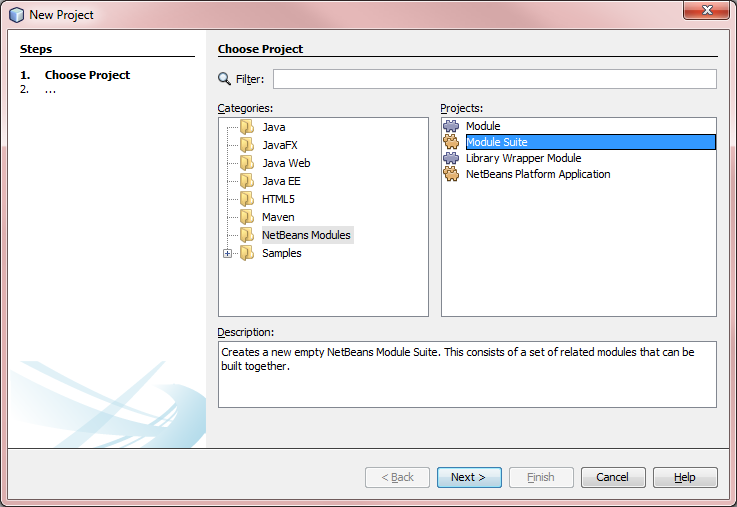
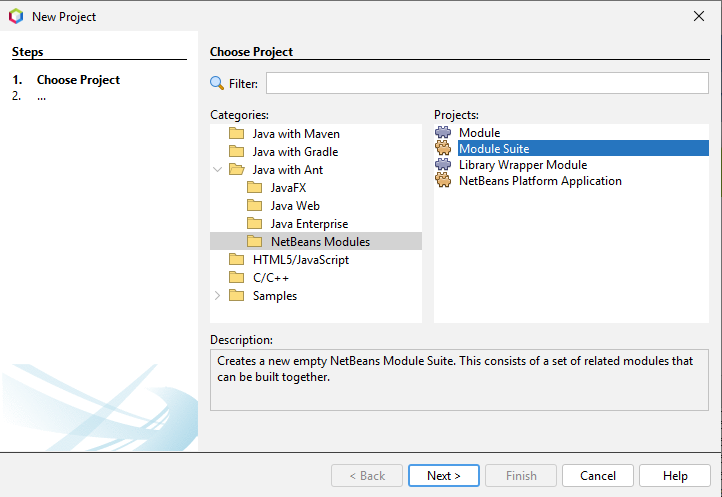
updated screenshots, guide for curent app version

Changed region(s): [[0.0, 0.0, 1.0, 1.0]]

diff --git a/Developer Training/docs/developer_guide.md b/Developer Training/docs/developer_guide.md
@@ -34,16 +34,19 @@ in the following areas:
 
 Throughout this training document we will use the following conventions:
 
-This is a tip. Tips describe features or concepts that are nice to know
-but not crucial for a good understanding of the rest of the material.
+**TIP**: This is a tip. Tips describe features or concepts that are nice 
+to know but not crucial for a good understanding of the rest of the 
+material.
 
 **This is an important fact. Important facts describe features or
 concepts that are crucial to successful Constellation development.**
 
+```
 This is a code block. Code blocks contain valid Java code that will be
 needed to complete the development tasks in this document. In general,
 you can complete the development tasks by copy-and-pasting these code
 blocks into the skeleton classes contained in the exercises module.
+```
 
 **Required Files**
 
@@ -117,10 +120,10 @@ the following questions:
 
 # Chapter 1: Development Environment
 
-Constellation is built in Java 8 on top of the NetBeans platform, taking
+Constellation is built in Java 21 on top of the NetBeans platform, taking
 advantage of its module and windowing systems, among others. For
-information on how to install and configure Java 8 or NetBeans, refer to
-Oracle's documentation.
+information on how to install and configure Java 21 or NetBeans, refer to
+instructions on the Azul and Apache Netbeans websites.
 
 ## Exercise 1.1: Setting up your Development Environment
 
@@ -131,7 +134,7 @@ be added or removed from a NetBeans platform as required. These modules
 are stored in and managed by a **module suite**.
 
 1.  Click on *File \> New Project*, then select *Module Suite* under the
-    *NetBeans Modules* category. Click *Next*.
+    *NetBeans Modules* sub-category of *Java with Ant*. Click *Next*.
 
 ![](media/image1.png){ width=80% }
 
@@ -167,14 +170,14 @@ suite and selecting *Run*.
 
 ![](media/image5.png){ width=40% }
 
-**TIP**: Pressing the F6 key is a shortcut for running your main project. When
-you have multiple projects open, you can specify the main project by
+**TIP**: Pressing the F6 key is a shortcut for running your main project. 
+When you have multiple projects open, you can specify the main project by
 right-clicking on it and selecting "Set as Main Project". This simply
 means that NetBeans can make assumptions about what to clean, build, or
 run when you don't specify otherwise.
 
 Once Constellation has finished loading, you should be presented with
-the Constellation Tutorial Page.
+the Constellation Welcome Page.
 
 ![](media/image6.png)
 
@@ -207,9 +210,9 @@ In order to start writing code, we first need a module to store it in.
 Similar to a module suite, you can configure a module by right clicking
 an open module and selecting *Properties*.
 
-1.  Since we are working in Java 8, it is always a good idea to ensure
-    that your module is Java 8 compliant. This can be achieved by
-    clicking *Sources* and setting the *Source Level* to 1.8.
+1.  Since we are working in Java 21, it is always a good idea to ensure
+    that your module is Java 21 compliant. This can be achieved by
+    clicking *Sources* and setting the *Source Level* to 21.
 
 ![](media/image10.png){ width=80% }
 
@@ -704,7 +707,7 @@ we will add a single node to the graph.
 @Override
 protected RecordStore query(final RecordStore query, final PluginInteraction interaction, 
         final PluginParameters parameters) throws InterruptedException, PluginException {
-    RecordStore result = new GraphRecordStore();
+    final RecordStore result = new GraphRecordStore();
     result.add();
     result.set(GraphRecordStoreUtilities.SOURCE + VisualConcept.VertexAttribute.IDENTIFIER, "Me");
     result.set(GraphRecordStoreUtilities.SOURCE + AnalyticConcept.VertexAttribute.TYPE, AnalyticConcept.VertexType.PERSON);
@@ -1095,7 +1098,7 @@ public static class VertexAttribute {
 }
 ```
 
-[You also need to build a population schema attribute.]{.ul} Take some
+You also need to build a population schema attribute. Take some
 time to look over the properties which can be set using the schema
 attribute builder.
 
@@ -1340,7 +1343,7 @@ Before we build an icon, we should create an **IconProvider**. Open
 **PandemicIconProvider**; it should look something like this:
 
 ```java
-@ServiceProvider(service = IconProvider.class)
+@ServiceProvider(service = ConstellationIconProvider.class)
 public class PandemicIconProvider implements IconProvider {
     ...
 }
@@ -1565,7 +1568,7 @@ the way in which Constellation responds to the error. Depending on the
 **PluginNotificationLevel** specified, Constellation will respond in
 different ways:
 
-1.  *FATAL***,** *ERROR*: A dialog box is displayed describing the error
+1.  *FATAL*, *ERROR*: A dialog box is displayed describing the error
 
 2.  *WARNING*: A notification bubble is displayed describing the error
 
@@ -1753,20 +1756,21 @@ public PluginParameters createParameters() {
     final PluginParameters parameters = new PluginParameters();
 
     final PluginParameter<DateTimeRangeParameterType.DateTimeRangeParameterValue> datetime 
-	        = DateTimeRangeParameterType.build(CoreGlobalParameters.DATETIME_RANGE_PARAMETER_ID);
+	        = CoreGlobalParameters.DATETIME_RANGE_PARAMETER;
     parameters.addParameter(datetime);
     return parameters;
 }
 ```
 
 A significant difference this time is that we have used a globally
-defined parameter ID, instead of creating our own as we did in the
-**ImportCustomCitiesPlugin**. Previously, we wanted to make our
-parameter ID unique so that it did not clash with other parameters in
-the application. In this case, we want to match the parameter ID of
-other data access plugins that specify a datetime range parameter. This
-will allow the Data Access View to present this parameter only once
-instead of making the users enter in the same values multiple times.
+defined parameter (with its own globally defined parameter ID), instead 
+of creating our own as we did in the **ImportCustomCitiesPlugin**. 
+Previously, we wanted to make our parameter ID unique so that it did not 
+clash with other parameters in the application. In this case, we want to 
+match the parameter ID of other data access plugins that specify a 
+datetime range parameter. This will allow the Data Access View to 
+present this parameter only once instead of making the users enter in 
+the same values multiple times.
 
 Run Constellation now and see that the datetime range parameter has not
 appeared under our plugin's heading. However, our plugin will have
@@ -2055,7 +2059,7 @@ public void updateParameters(final Graph graph, final PluginParameters parameter
     } finally {
         readableGraph.release();
     }
-    SingleChoiceParameterType.setOptions(parameters.getParameters().get(DISEASE_PARAMETER_ID), new ArrayList<>(diseases));
+    SingleChoiceParameterType.setOptions((PluginParameter<SingleChoiceParameterType.SingleChoiceParameterValue>) parameters.getParameters().get(DISEASE_PARAMETER_ID), new ArrayList<>(diseases));
 }
 ```
 
@@ -2690,7 +2694,7 @@ will ensure against failure.
 
 If you look at the 'Outbreak' attribute in the histogram now, you will
 notice that the labels are as expected but that the sorting seems
-random. This is because it is sorting by **hashcode()**as **Outbreak**
+random. This is because it is sorting by **hashcode()** as **Outbreak**
 doesn't implement **Comparable**.
 
 ### 6.4.1: Implement Comparable for Outbreak
